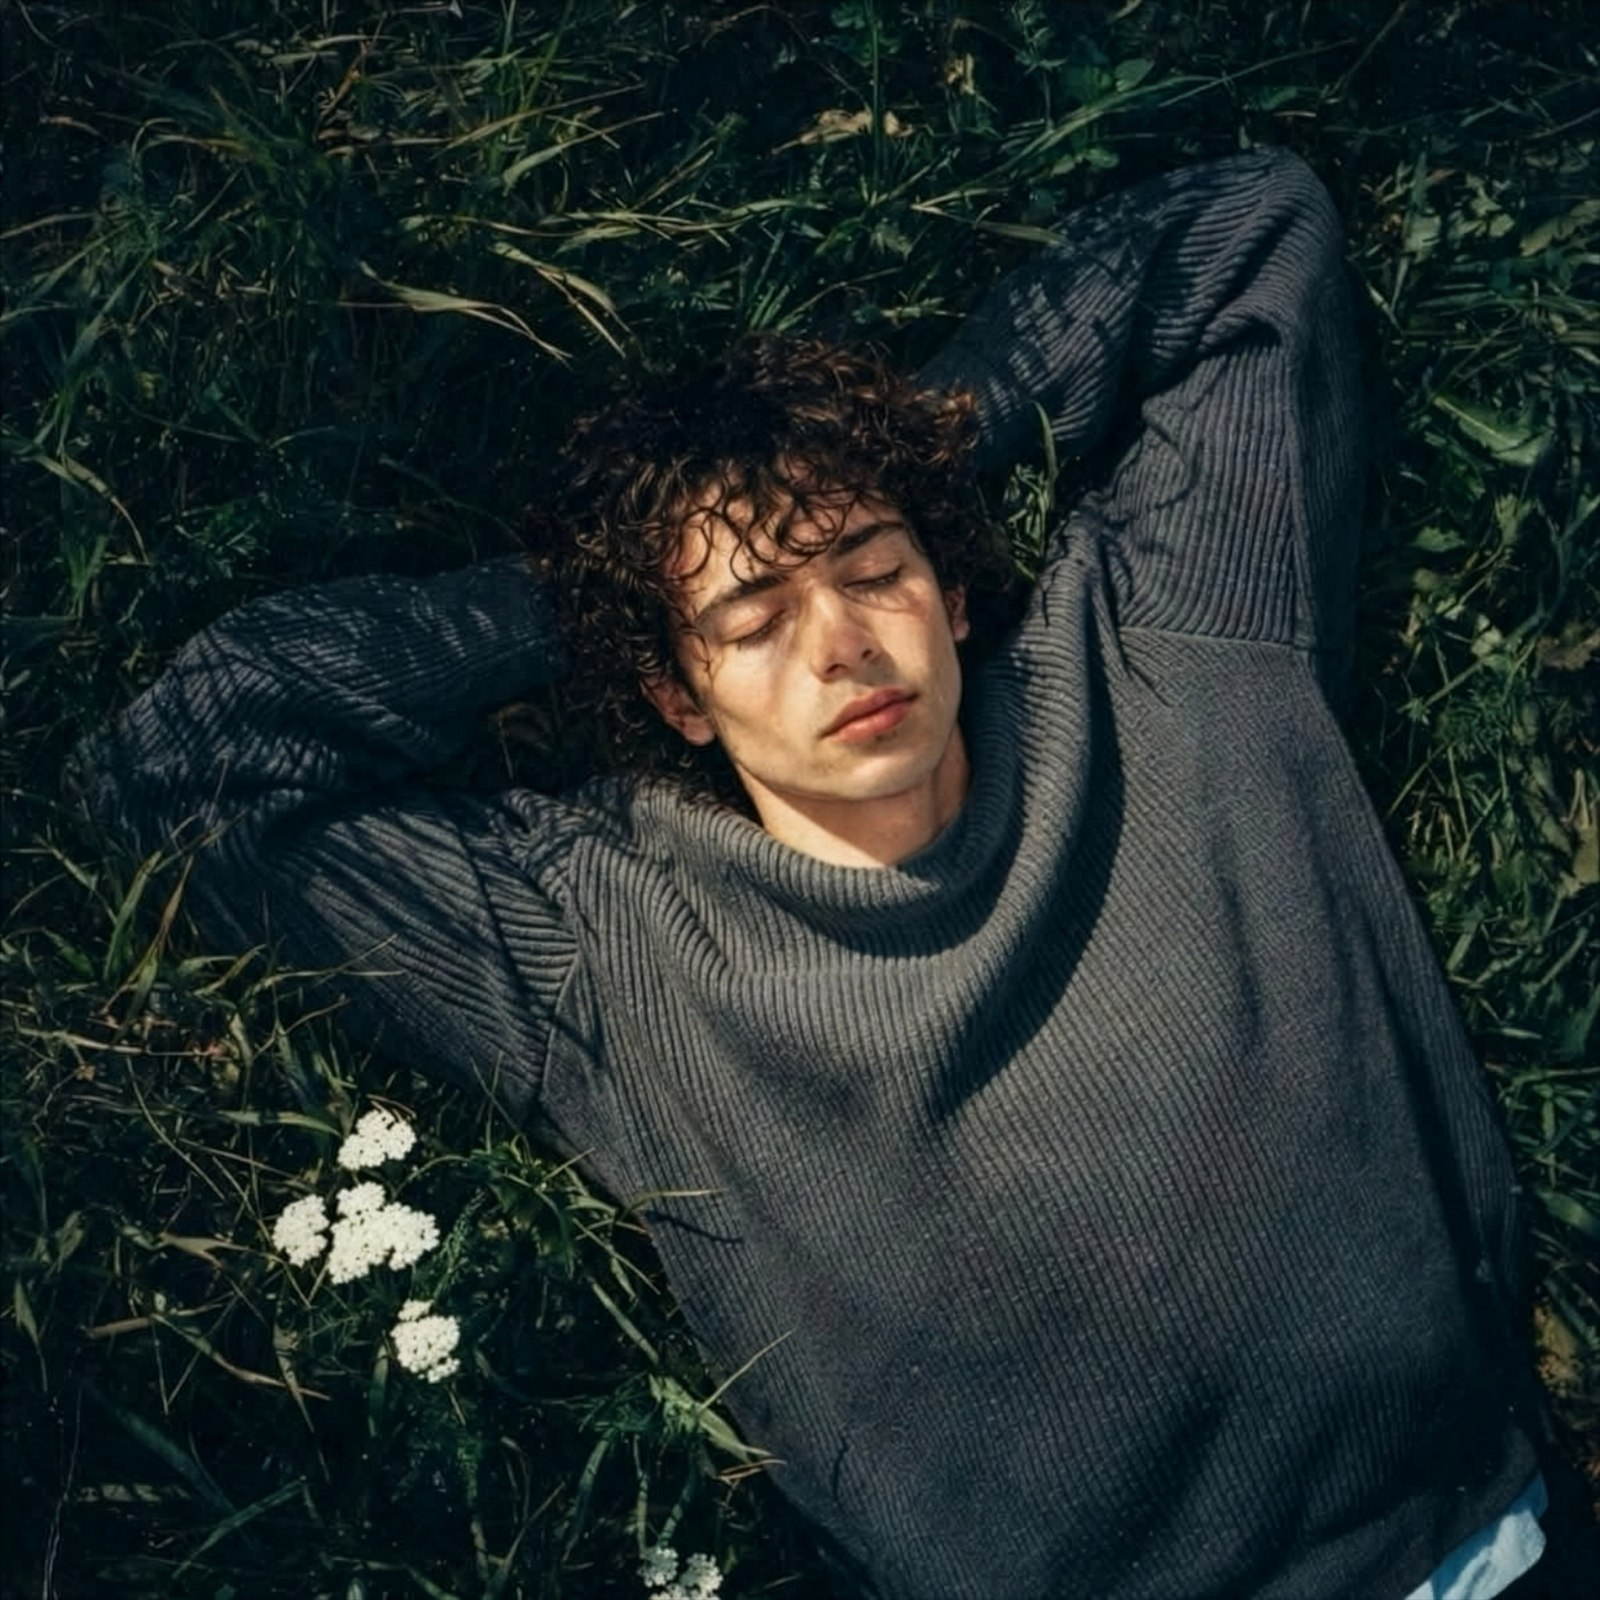
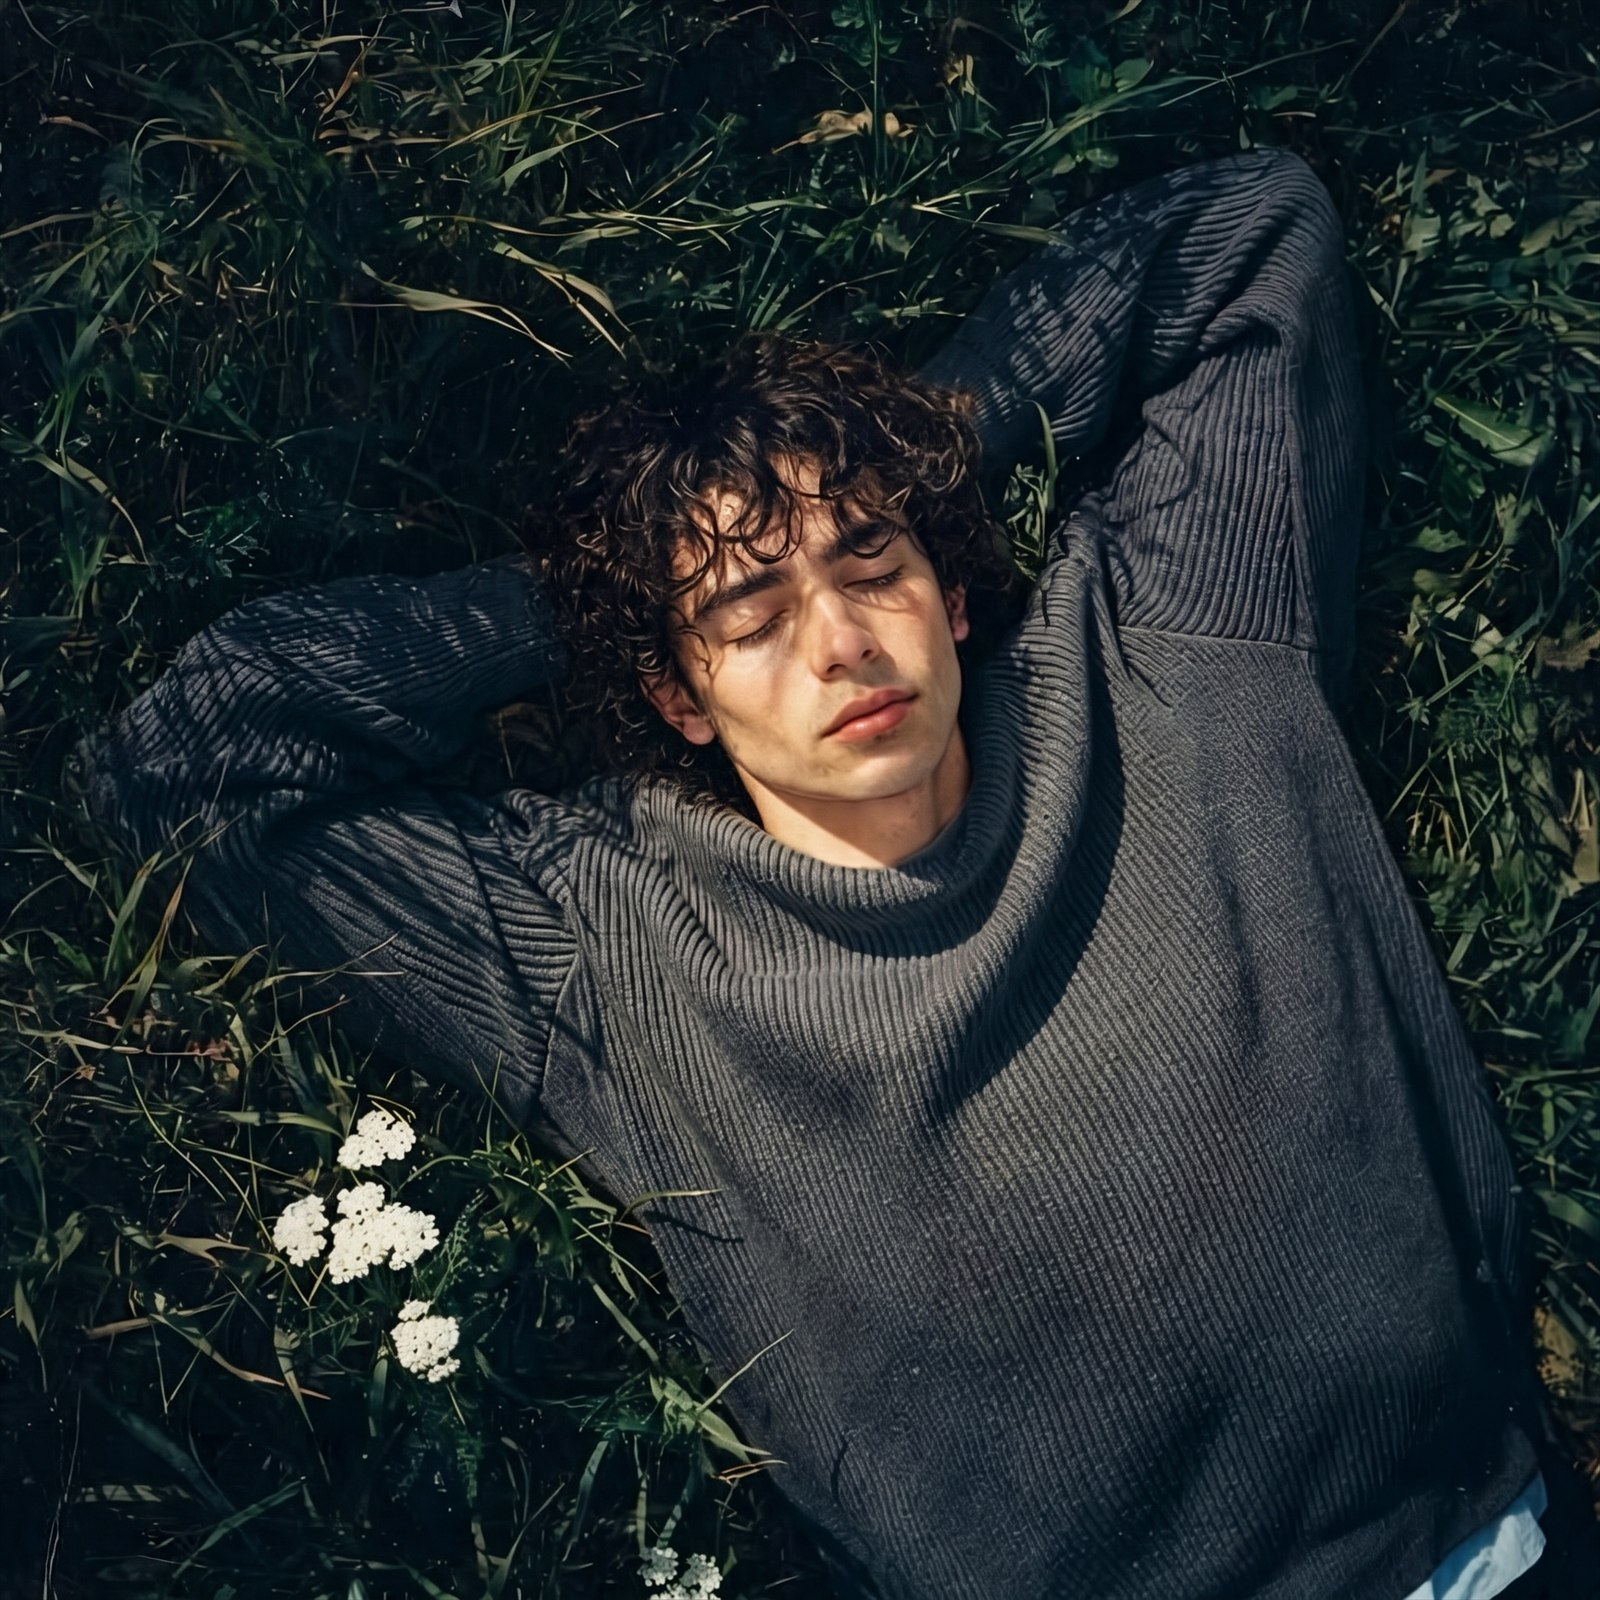
Update hero photo to the final version
Regenerated img/relaxed.jpg (2048px) and img/relaxed-1600.jpg from the final
photo, updated the srcset, and ignored the source PNG.

diff --git a/index.html b/index.html
@@ -11,9 +11,9 @@
   <link rel="preconnect" href="https://fonts.googleapis.com">
   <link rel="preconnect" href="https://fonts.gstatic.com" crossorigin>
   <link rel="stylesheet" href="https://fonts.googleapis.com/css2?family=Fraunces:opsz,wght@9..144,400;9..144,500;9..144,600&family=Inter:wght@400;500;600&display=swap">
-  <link rel="stylesheet" href="styles.css?v=4">
+  <link rel="stylesheet" href="styles.css?v=5">
   <script>document.documentElement.classList.add("js");</script>
-  <script src="script.js?v=4" defer></script>
+  <script src="script.js?v=5" defer></script>
 </head>
 <body>
 
@@ -41,7 +41,7 @@
     <!-- 1. HERO (content.md > NAME, HERO) -->
     <section class="hero" id="top">
       <div class="hero__media">
-        <img src="img/relaxed.jpg" srcset="img/relaxed-1600.jpg 1600w, img/relaxed.jpg 2412w" sizes="(min-width: 64em) 68vw, 100vw" width="2412" height="2412" fetchpriority="high"
+        <img src="img/relaxed.jpg" srcset="img/relaxed-1600.jpg 1600w, img/relaxed.jpg 2048w" sizes="(min-width: 64em) 68vw, 100vw" width="2048" height="2048" fetchpriority="high"
              alt="Gage Dunn lying back in dark green grass with eyes closed and hands behind the head, wearing a gray ribbed sweater, white flowers at the lower left">
       </div>
       <div class="wrap hero__in">
